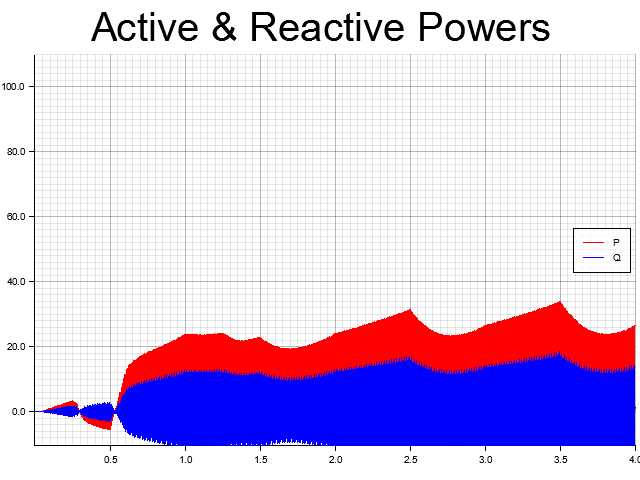
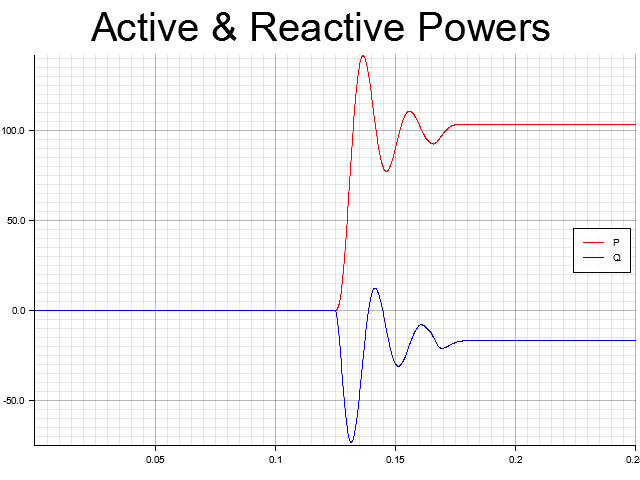
Update power plot ylims and change simulation time variables

diff --git a/src/main.rs b/src/main.rs
@@ -36,8 +36,9 @@ fn main() -> Result<(), Box<dyn std::error::Error>> {
     /* 
     RUNNING DYNAMICAL SIMULATION
     */
-    const n_steps: u32 = 40000;  // TODO: Change this to UPPERCASE or make it a variable
-    let t_end = n_steps as f32 * dt;
+    //const n_steps: u32 = 10000;  // TODO: Change this to UPPERCASE or make it a variable
+    let t_end = 0.25;  // Simulate time in seconds
+    let n_steps: u32 = (t_end / dt).ceil() as u32;
     let steps: Vec<u32> = (0..n_steps+1).collect();
     let mut t: f32;
     let mut p: f32; let mut q: f32;
@@ -47,10 +48,10 @@ fn main() -> Result<(), Box<dyn std::error::Error>> {
     let mut thetag_values: Vec<(f32, f32)> = vec![(0., 0.); (n_steps+1) as usize];
     let mut p_values: Vec<(f32, f32)> = vec![(0., 0.); (n_steps+1) as usize];
     let mut q_values: Vec<(f32, f32)> = vec![(0., 0.); (n_steps+1) as usize];
-    for step in steps {  // TODO: Debug this simulation. Power / Current values seem wonky
+    for step in steps {  // TODO: Debug this simulation. Power / Current values seem wonky. Something to do with the per unitization of theta
         t = step as f32 * dt;
         if t > (t_end / 2.) {
-            dvoc.set_p_ref(1.0);
+            dvoc.set_p_ref(100.0);
         }
 
         // Collect voltage values
@@ -68,11 +69,12 @@ fn main() -> Result<(), Box<dyn std::error::Error>> {
         q_values[step as usize] = (t, q);
 
         grid.step_(dt);
-        line.step(dt, [dvoc.kv * dvoc.v, (dvoc.w_nom * dvoc.theta) % (2.*PI), grid.v, grid.theta]);
+        line.step(dt, [dvoc.kv * dvoc.v, (dvoc.w_nom * dvoc.theta) % (2.*PI), 
+                       grid.v_nom * grid.v, (grid.w_nom * grid.theta) % (2.*PI)]);
     }
     println!("v: {}, theta: {}", dvoc.v * dvoc.v_nom, (dvoc.w_nom * dvoc.theta) % (2.*PI));
     println!("ia: {}, ib: {}", line.i_alpha, line.i_beta);
-    println!("vg: {}, thetag: {}", grid.v, grid.theta);
+    println!("vg: {}, thetag: {}", grid.v * grid.v_nom, (grid.w_nom * grid.theta) % (2.*PI));
 
     /* 
     PLOTTING THE RESULTS
@@ -114,7 +116,7 @@ fn main() -> Result<(), Box<dyn std::error::Error>> {
     chart
         .draw_series(LineSeries::new(
             vg_values,
-            &RED,
+            &GREEN,
         ))?
         .label("Grid Voltage")
         .legend(|(x, y)| PathElement::new(vec![(x, y), (x + 20, y)], &RED));
@@ -122,7 +124,7 @@ fn main() -> Result<(), Box<dyn std::error::Error>> {
     chart
         .draw_series(LineSeries::new(
             thetag_values,
-            &BLUE,
+            &BLACK,
         ))?
         .label("Grid Angle")
         .legend(|(x, y)| PathElement::new(vec![(x, y), (x + 20, y)], &BLUE));
@@ -135,7 +137,13 @@ fn main() -> Result<(), Box<dyn std::error::Error>> {
     root.present()?;
 
 
-    // Plot the power data
+    /* Plot the power data */
+    // Find the maximum and minimum values of P and Q for plotting ylims
+    let (_,mut ps): (Vec<f32>, Vec<f32>) = p_values.into_iter().unzip();
+    let (_,mut qs): (Vec<_>, Vec<_>) = q_values.into_iter().unzip();
+    ps.append(&mut qs);
+    let min_pq: f32 = ps.iter().fold(0.0f32, |a, &b| a.min(b));
+    let max_pq: f32 = ps.iter().fold(0.0f32, |a, &b| a.max(b));
     let root = BitMapBackend::new(POWER_OUT_FILE_NAME, (640, 480)).into_drawing_area();
     root.fill(&WHITE)?;
     let mut chart = ChartBuilder::on(&root)
@@ -143,7 +151,7 @@ fn main() -> Result<(), Box<dyn std::error::Error>> {
         .margin(5 as u32)
         .x_label_area_size(30 as u32)
         .y_label_area_size(30 as u32)
-        .build_cartesian_2d(0.0f32..t_end, -10.0f32..110.0f32)?;
+        .build_cartesian_2d(0.0f32..t_end, (min_pq-1.)..(max_pq+1.))?;
 
     chart.configure_mesh().draw()?;
 
